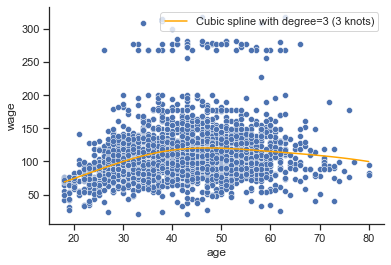
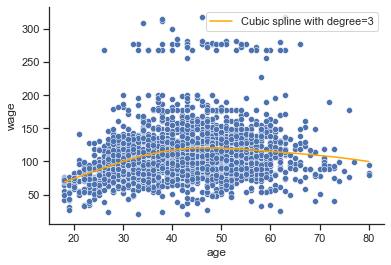
Update documentation

Changed region(s): [[0.399, 0.0302, 0.9821, 0.1208]]

diff --git a/docs/splines.html b/docs/splines.html
@@ -867,7 +867,7 @@
 <span class="c1"># plot</span>
 <span class="n">sns</span><span class="o">.</span><span class="n">scatterplot</span><span class="p">(</span><span class="n">x</span><span class="o">=</span><span class="n">X_train</span><span class="p">[</span><span class="s1">&#39;age&#39;</span><span class="p">],</span> <span class="n">y</span><span class="o">=</span><span class="n">y_train</span><span class="p">[</span><span class="s1">&#39;wage&#39;</span><span class="p">])</span>
 
-<span class="n">plt</span><span class="o">.</span><span class="n">plot</span><span class="p">(</span><span class="n">x_new</span><span class="p">,</span> <span class="n">pred</span><span class="p">,</span> <span class="n">label</span><span class="o">=</span><span class="s1">&#39;Cubic spline with degree=3 (3 knots)&#39;</span><span class="p">,</span> <span class="n">color</span><span class="o">=</span><span class="s1">&#39;orange&#39;</span><span class="p">)</span>
+<span class="n">plt</span><span class="o">.</span><span class="n">plot</span><span class="p">(</span><span class="n">x_new</span><span class="p">,</span> <span class="n">pred</span><span class="p">,</span> <span class="n">label</span><span class="o">=</span><span class="s1">&#39;Cubic spline with degree=3&#39;</span><span class="p">,</span> <span class="n">color</span><span class="o">=</span><span class="s1">&#39;orange&#39;</span><span class="p">)</span>
 <span class="n">plt</span><span class="o">.</span><span class="n">legend</span><span class="p">();</span>
 </pre></div>
 </div>
